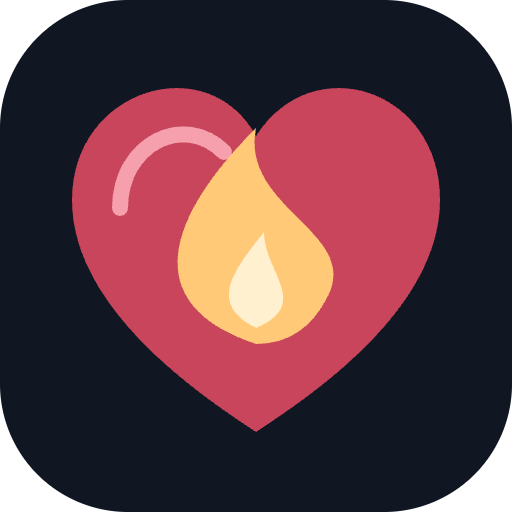
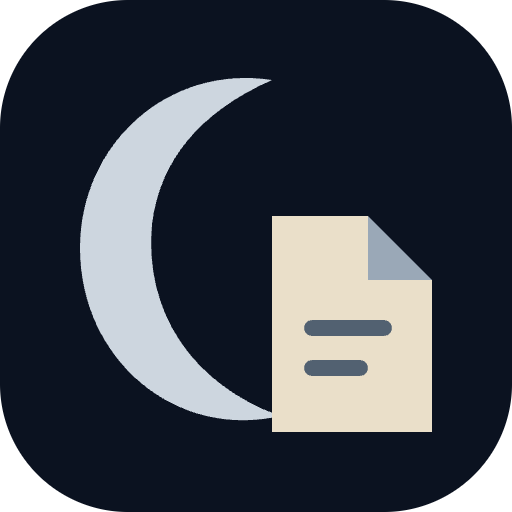
design: adopt a quiet moonlit journal identity

diff --git a/web/src/components/LetterSeal.tsx b/web/src/components/LetterSeal.tsx
@@ -1,4 +1,4 @@
-/** Wick's candle flame, held in a heart-shaped wax seal. */
+/** A page kept in moonlight: the archive's quiet night-journal mark. */
 export function LetterSeal({ seal = false }: { seal?: boolean }) {
-  return <svg className="letter-seal" viewBox="0 0 64 64" fill="none" aria-hidden="true">{!seal && <rect width="64" height="64" rx="16" fill="#101722"/>}<path d="M32 54C26 50 9 39 9 25c0-14 17-19 23-8 7-11 23-6 23 8 0 14-17 25-23 29Z" fill="#c9455c"/><path d="M15 26c0-8 8-12 13-7" stroke="#f5a0ac" strokeWidth="2" strokeLinecap="round"/><path d="M32 43c-15-5-11-16 0-27-2 10 13 13 9 21-2 4-5 6-9 6Z" fill="#ffc978"/><path d="M32 41c-6-3-3-7 1-12 0 5 6 9-1 12Z" fill="#fff1cf"/></svg>;
+  return <svg className="letter-seal" viewBox="0 0 64 64" fill="none" aria-hidden="true">{seal ? <circle cx="32" cy="32" r="31" fill="#151f2d"/> : <rect width="64" height="64" rx="16" fill="#0b1220"/>}<path d="M34 10C21 8 10 18 10 31c0 14 12 24 25 21-11-4-17-13-16-24 1-8 6-14 15-18Z" fill="#cdd6df"/><path d="M34 27h12l8 8v19H34V27Z" fill="#eadfc9"/><path d="M46 27v8h8" fill="#9aa8b7"/><path d="M39 41h9m-9 5h6" stroke="#526171" strokeWidth="2" strokeLinecap="round"/></svg>;
 }

diff --git a/web/src/components/ShareLetterIcon.tsx b/web/src/components/ShareLetterIcon.tsx
@@ -1,4 +1,4 @@
 /** The same sealed stationery used at the recipient's door. */
 export function ShareLetterIcon() {
-  return <svg className="share-letter-icon" width="22" height="22" viewBox="0 0 24 24" fill="none" stroke="currentColor" strokeWidth="1.4" strokeLinecap="round" strokeLinejoin="round" aria-hidden="true"><rect x="2" y="5" width="20" height="15" rx="2"/><path d="m3 6 9 7 9-7M3 19l5-5m13 5-5-5"/><path d="M12 17s-3-2-3-4c0-2 2-2 3-1 1-1 3-1 3 1 0 2-3 4-3 4Z" fill="#c9455c" stroke="#efb5bb" strokeWidth=".8"/></svg>;
+  return <svg className="share-letter-icon" width="22" height="22" viewBox="0 0 24 24" fill="none" stroke="currentColor" strokeWidth="1.4" strokeLinecap="round" strokeLinejoin="round" aria-hidden="true"><rect x="2" y="5" width="20" height="15" rx="2"/><path d="m3 6 9 7 9-7M3 19l5-5m13 5-5-5"/><circle cx="12" cy="13" r="4" fill="#151f2d" stroke="none"/><path d="M13 10a3 3 0 1 0 1 5 3.5 3.5 0 0 1-1-5Z" fill="#cdd6df" stroke="none"/></svg>;
 }

diff --git a/DECISIONS.md b/DECISIONS.md
@@ -23,3 +23,6 @@ The explicit current brief restores the rose heart wax seal with an amber flame,
 Published d3f7ed7 through GitHub Pages run 37122722759; live protected-share decryption passed. Bare /shared/ and refresh intentionally have no encrypted payload. Explain the missing invitation beside Open and disable phrase entry until a valid link/file exists. Do not persist recipient payloads or pretend the phrase can locate a message. Original links and file imports retain the existing behavior.
 
 Live verification also reproduced a same-document navigation bug: opening a full share link from the existing bare recipient page changes only the fragment, so the mount-only parser never ran. Shared now consumes hashchange invitations, cancels stale decrypt/transition work, replaces the in-memory envelope, clears the URL fragment again and restores phrase focus. No new storage. Regression covers bare page → protected link without a reload.
+
+## October 4 — moonlit journal identity
+Latest user direction supersedes the candle-heart brand: a silver crescent shelters a warm folded page on near-black navy. Reuse the original SVG in lobby, recipient navigation and dark stationery seals; Share uses a moon-sealed envelope. Regenerate favicon/192/512/Apple assets. Wick remains the candle messenger within the scene. The tested same-page protected-link fix is included in this deployment.

diff --git a/PROGRESS.md b/PROGRESS.md
@@ -45,3 +45,6 @@ Limitations: browser-emulated mobile only; Pinterest inaccessible; reply uses th
 Published d3f7ed7 through GitHub Pages run 37122722759; live protected-share decryption passed. Bare /shared/ and refresh intentionally have no encrypted payload. Explain the missing invitation beside Open and disable phrase entry until a valid link/file exists. Do not persist recipient payloads or pretend the phrase can locate a message. Original links and file imports retain the existing behavior.
 
 Live verification also reproduced a same-document navigation bug: opening a full share link from the existing bare recipient page changes only the fragment, so the mount-only parser never ran. Shared now consumes hashchange invitations, cancels stale decrypt/transition work, replaces the in-memory envelope, clears the URL fragment again and restores phrase focus. No new storage. Regression covers bare page → protected link without a reload.
+
+## October 4 — moonlit journal identity
+Latest user direction supersedes the candle-heart brand: a silver crescent shelters a warm folded page on near-black navy. Reuse the original SVG in lobby, recipient navigation and dark stationery seals; Share uses a moon-sealed envelope. Regenerate favicon/192/512/Apple assets. Wick remains the candle messenger within the scene. The tested same-page protected-link fix is included in this deployment.

diff --git a/INSTRUCTIONS.md b/INSTRUCTIONS.md
@@ -21,3 +21,6 @@ Recipient controls use the existing master Sound store; never label room audio C
 
 ## Shared Open recovery — October 3
 Published d3f7ed7 through GitHub Pages run 37122722759; live protected-share decryption passed. Bare /shared/ and refresh intentionally have no encrypted payload. Explain the missing invitation beside Open and disable phrase entry until a valid link/file exists. Do not persist recipient payloads or pretend the phrase can locate a message. Original links and file imports retain the existing behavior.
+
+## October 4 — moonlit journal identity
+Latest user direction supersedes the candle-heart brand: a silver crescent shelters a warm folded page on near-black navy. Reuse the original SVG in lobby, recipient navigation and dark stationery seals; Share uses a moon-sealed envelope. Regenerate favicon/192/512/Apple assets. Wick remains the candle messenger within the scene. The tested same-page protected-link fix is included in this deployment.

diff --git a/SHARED_SPACE_REDESIGN.md b/SHARED_SPACE_REDESIGN.md
@@ -40,3 +40,6 @@ The previous toggle repair is already committed here; do not claim a newly disco
 
 ## Refinement result
 Implemented the current plan. Build/lint, shared-space, room-controls and sound-state pass. Manual desktop/mobile review corrected greeting/navigation overlap; regression now checks their bounds. No new falling-letter runtime fix was needed: the existing fix passes, and tests now enforce one emission stream and no restart while OFF after tab visibility changes.
+
+## October 4 — moonlit journal identity
+Latest user direction supersedes the candle-heart brand: a silver crescent shelters a warm folded page on near-black navy. Reuse the original SVG in lobby, recipient navigation and dark stationery seals; Share uses a moon-sealed envelope. Regenerate favicon/192/512/Apple assets. Wick remains the candle messenger within the scene. The tested same-page protected-link fix is included in this deployment.
